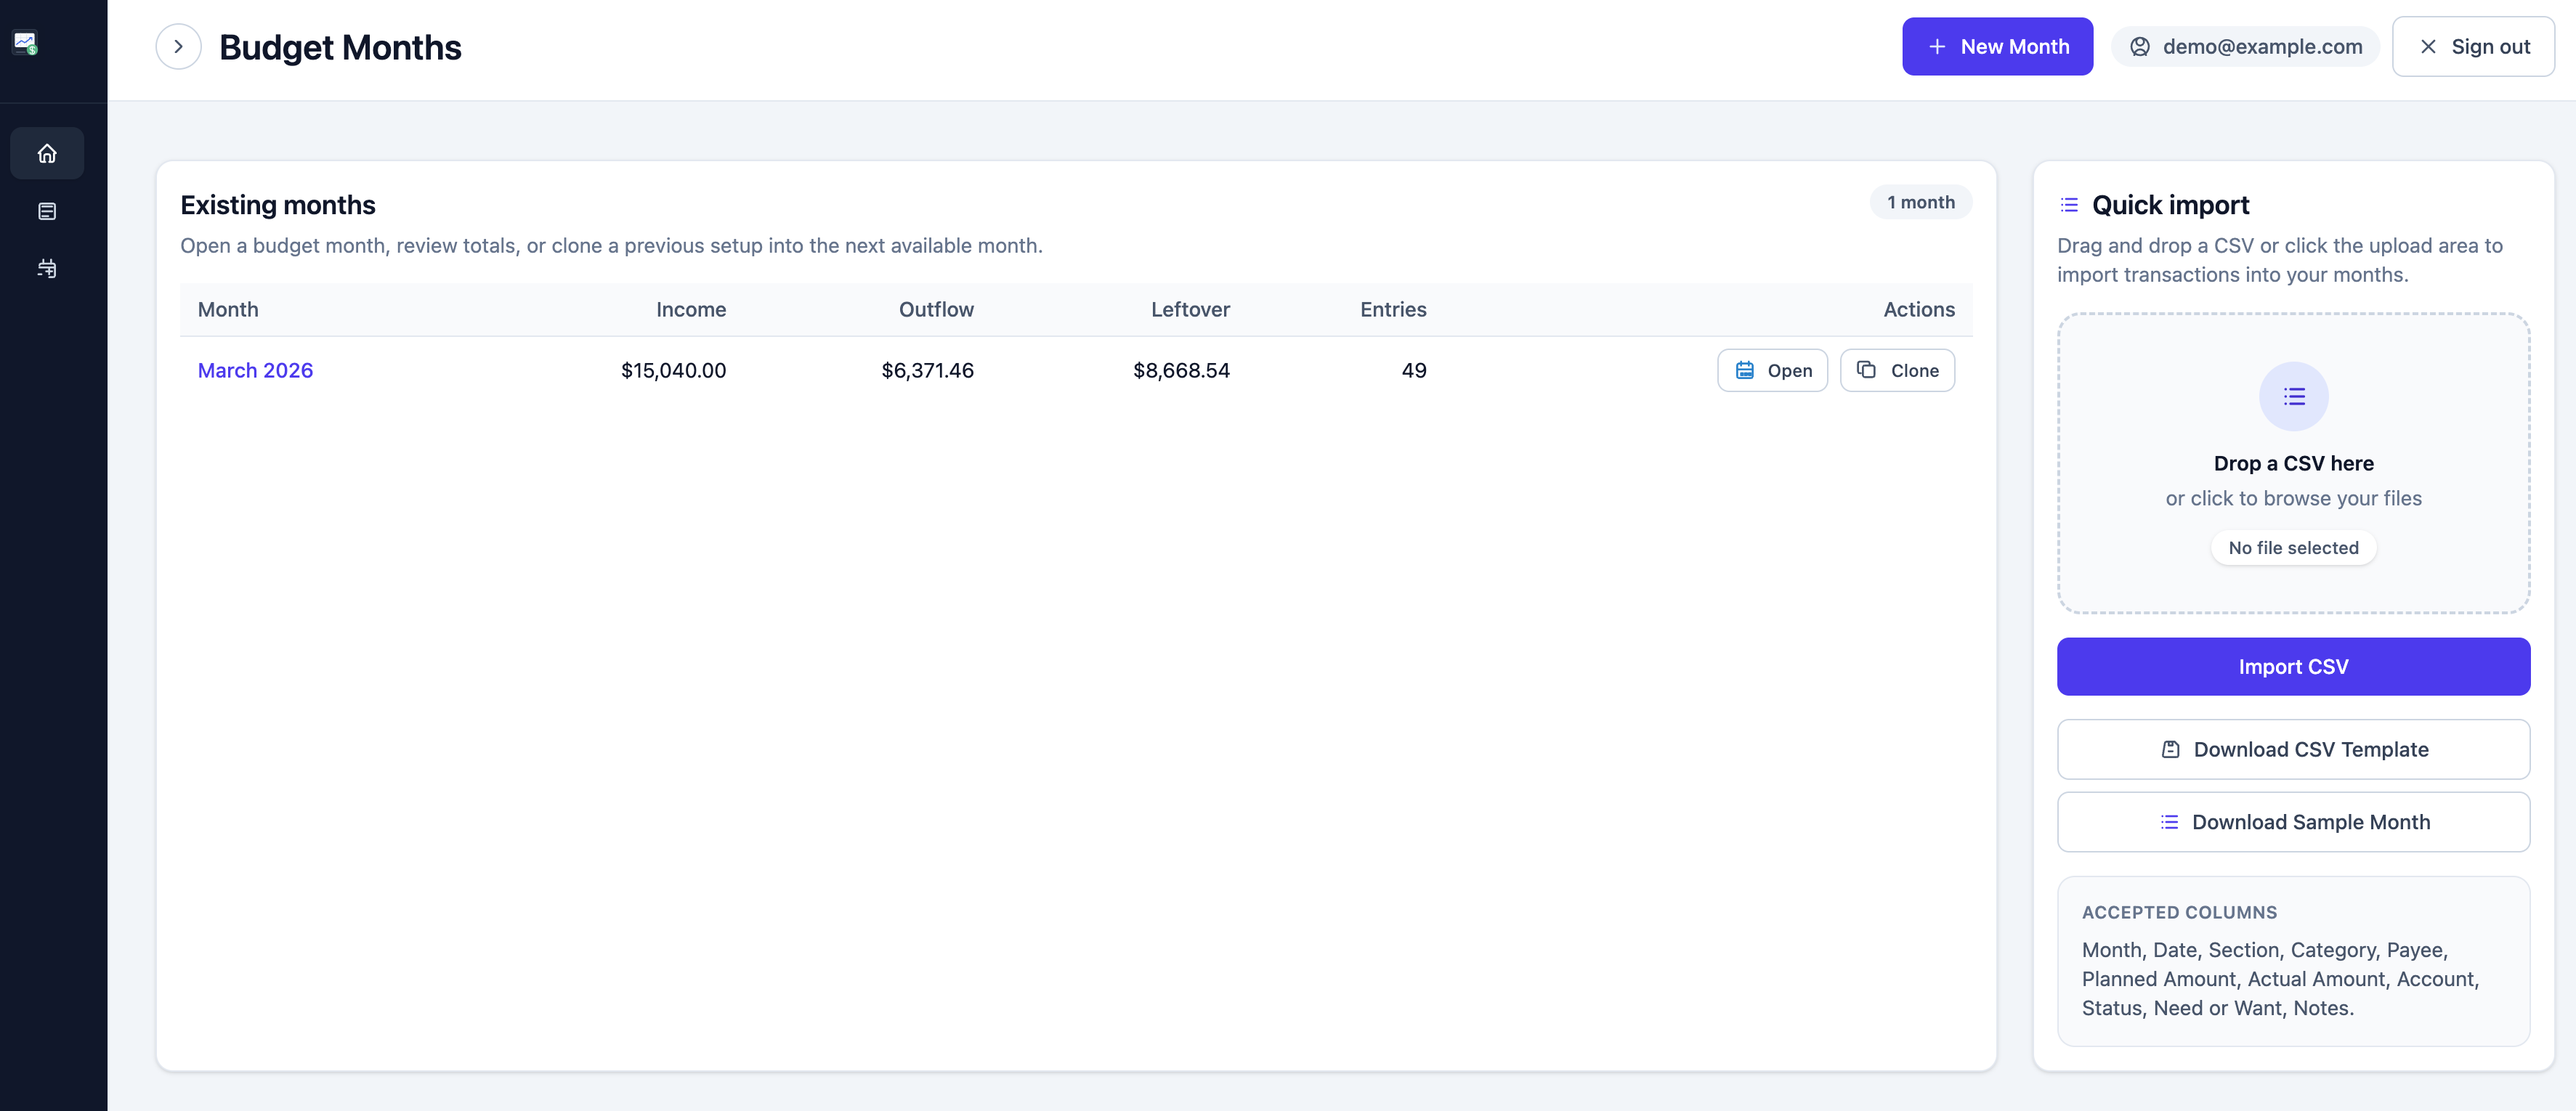
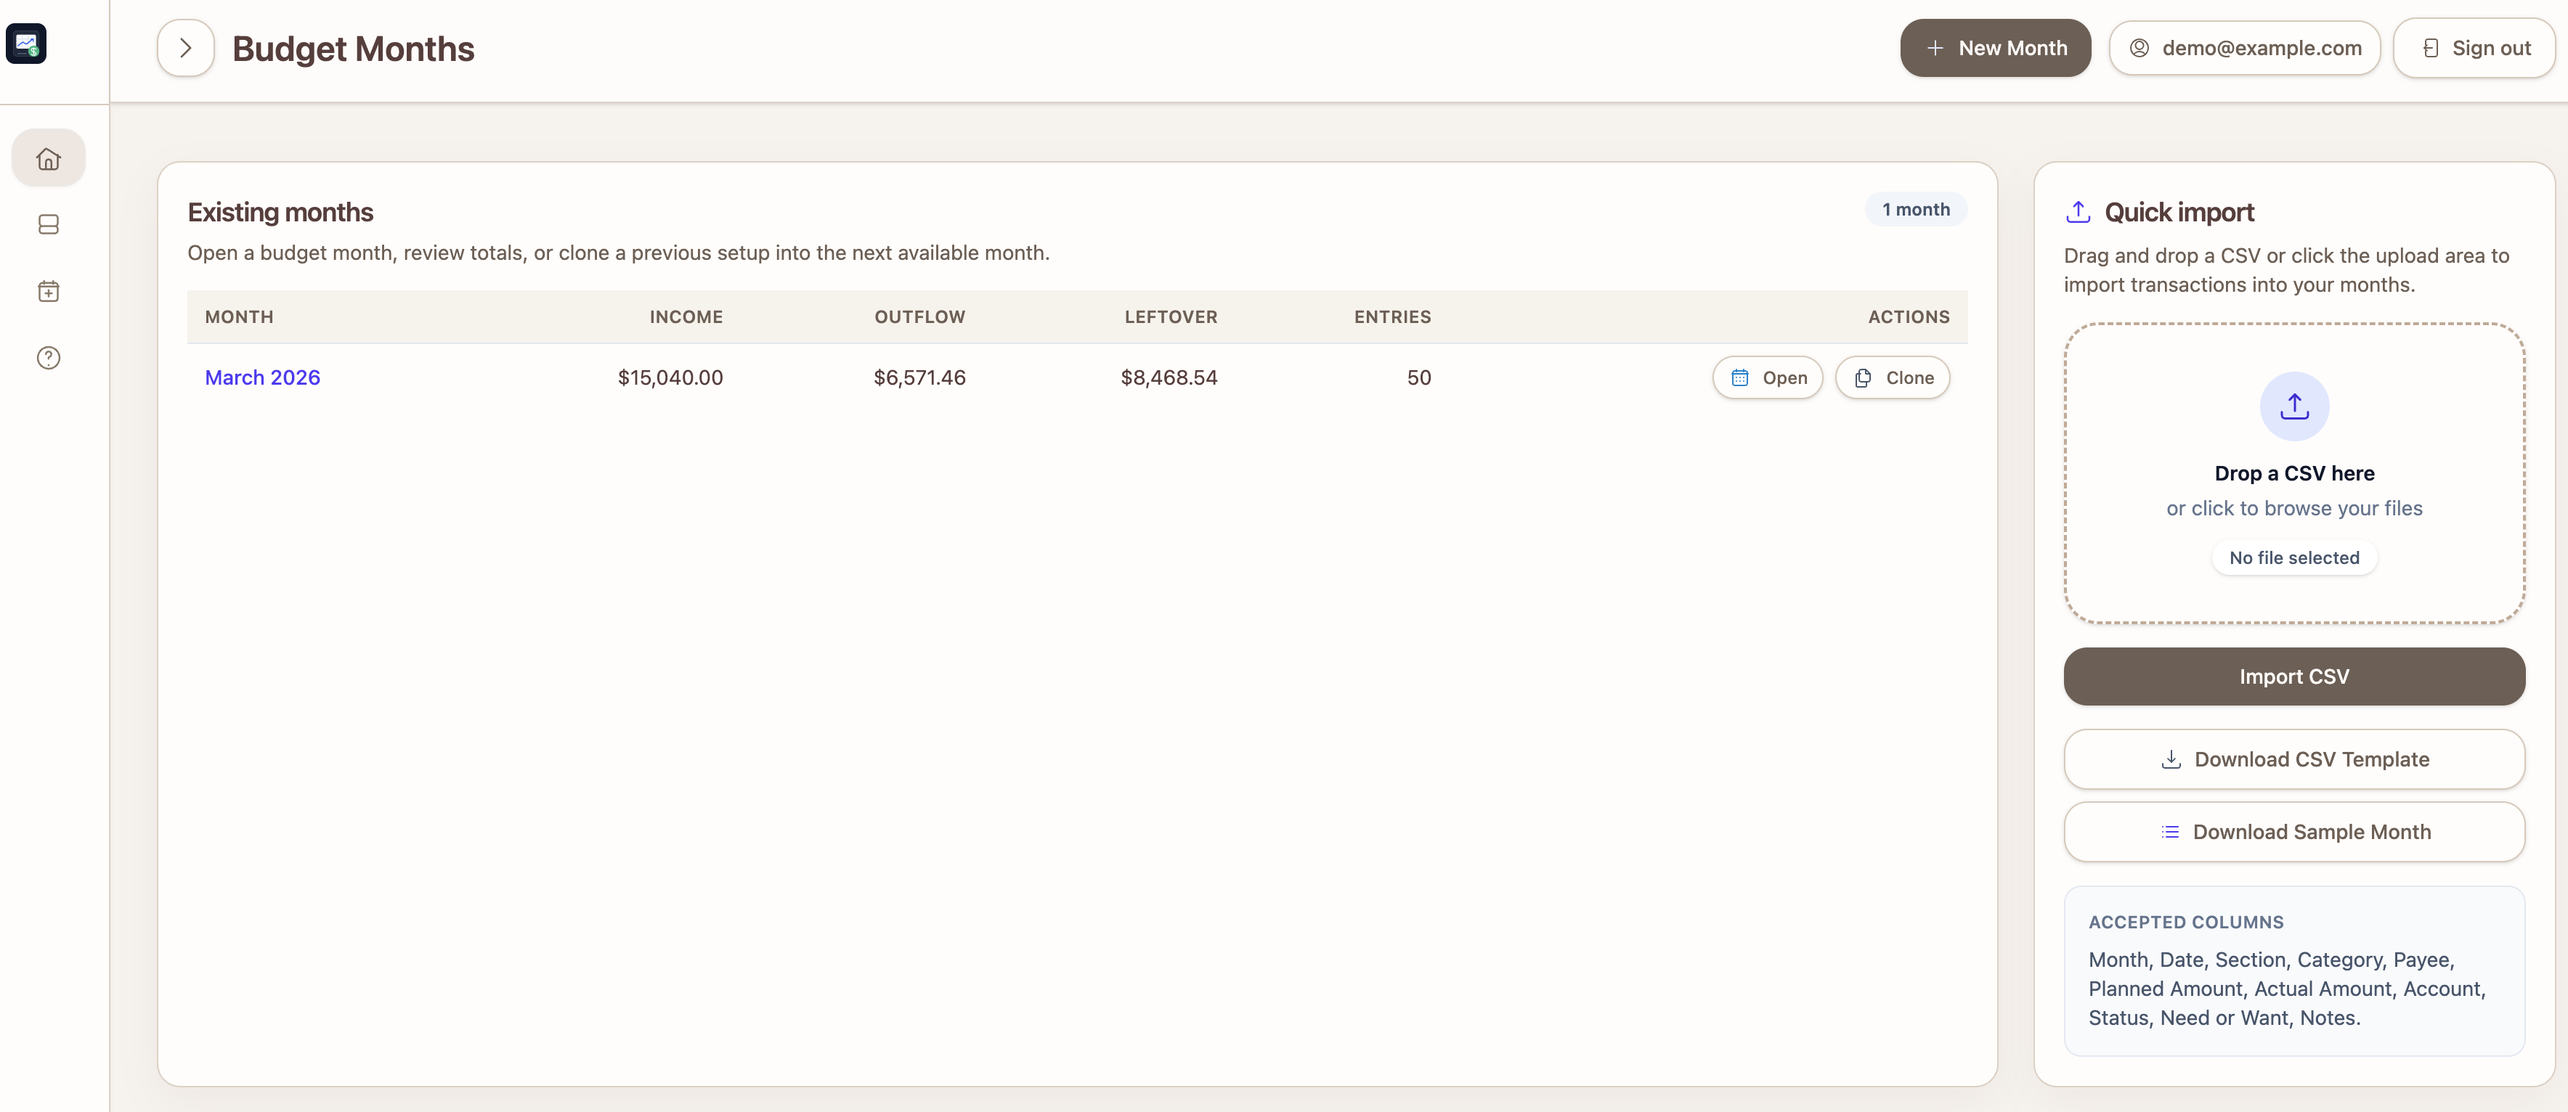
updating screenshots

diff --git a/README.md b/README.md
@@ -65,6 +65,8 @@ After seeding, sign in with the demo account described in the [Sample User](#sam
 
 ## Screenshots
 
+Current screenshots reflect the latest dashboard theme, month tabs, and planning workflow.
+
 <table>
 	<tr>
 		<td align="center">
@@ -72,14 +74,14 @@ After seeding, sign in with the demo account described in the [Sample User](#sam
 			<br>
 			<strong>Dashboard</strong>
 			<br>
-			Existing months and quick CSV import.
+			Month list, quick actions, and CSV import from one home screen.
 		</td>
 		<td align="center">
 			<img src="app/assets/images/screenshots/clone-month-view.png" alt="Month creation wizard" width="100%">
 			<br>
 			<strong>Month Creation Wizard</strong>
 			<br>
-			Clone preview and fresh month flow.
+			Clone a previous month or start fresh with a guided setup flow.
 		</td>
 	</tr>
 	<tr>
@@ -88,14 +90,23 @@ After seeding, sign in with the demo account described in the [Sample User](#sam
 			<br>
 			<strong>Monthly Overview</strong>
 			<br>
-			Timeline totals, grouped entries, and charts.
+			Summary cards, grouped timeline sections, and fast month review actions.
 		</td>
 		<td align="center">
 			<img src="app/assets/images/screenshots/monthly-calendar-view.png" alt="Calendar view" width="100%">
 			<br>
 			<strong>Calendar View</strong>
 			<br>
-			Day-by-day entry layout with reason pills.
+			Day-by-day layout for reviewing planned and paid activity across the month.
+		</td>
+	</tr>
+	<tr>
+		<td align="center" colspan="2">
+			<img src="app/assets/images/screenshots/monthly-plan-edit.png" alt="Plan and edit tab" width="100%">
+			<br>
+			<strong>Plan and Edit</strong>
+			<br>
+			Guided workspace for generating a month, adjusting entries, and editing the plan in one place.
 		</td>
 	</tr>
 </table>
